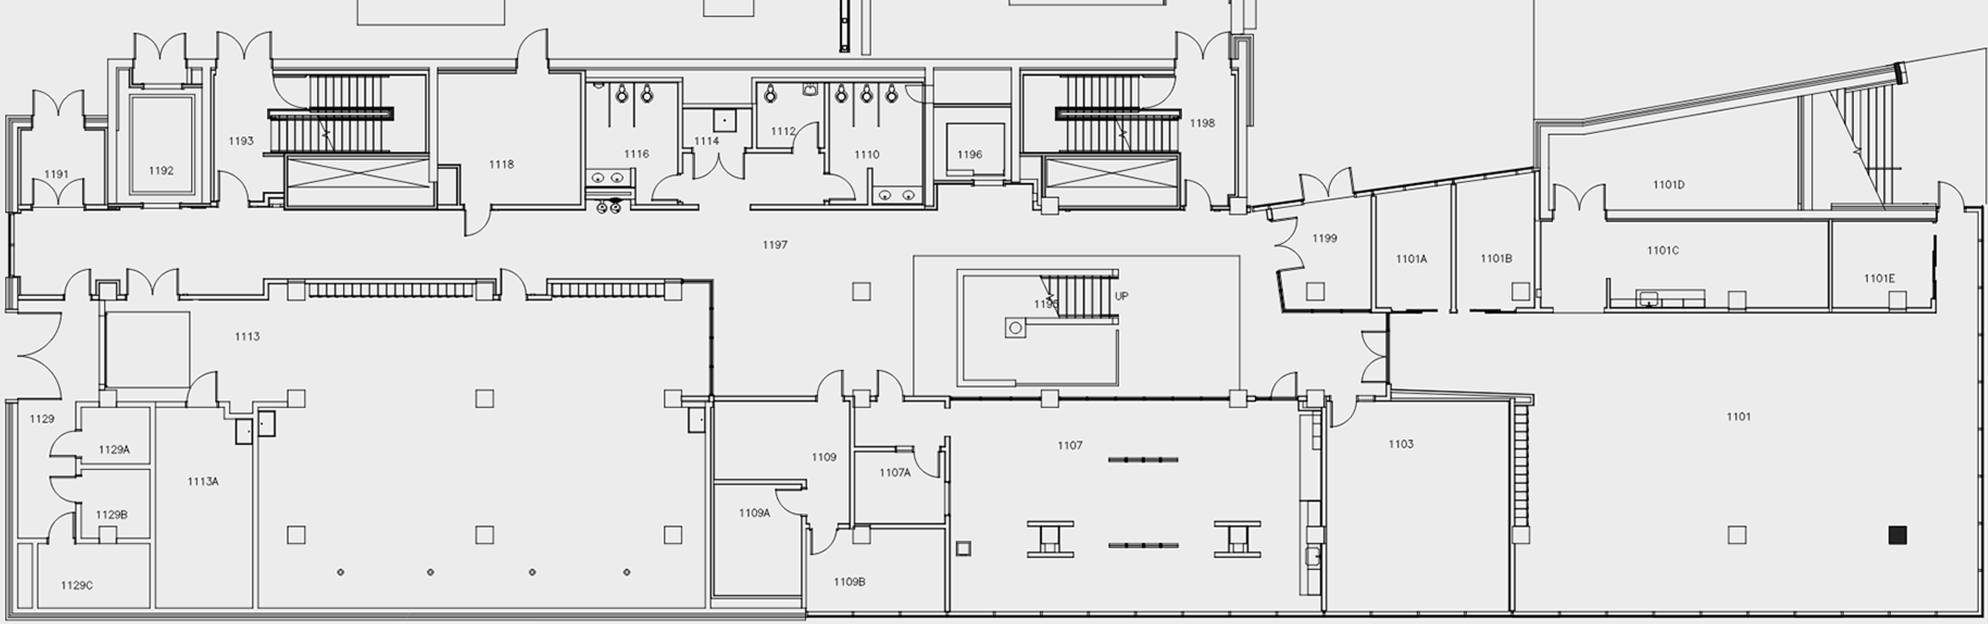
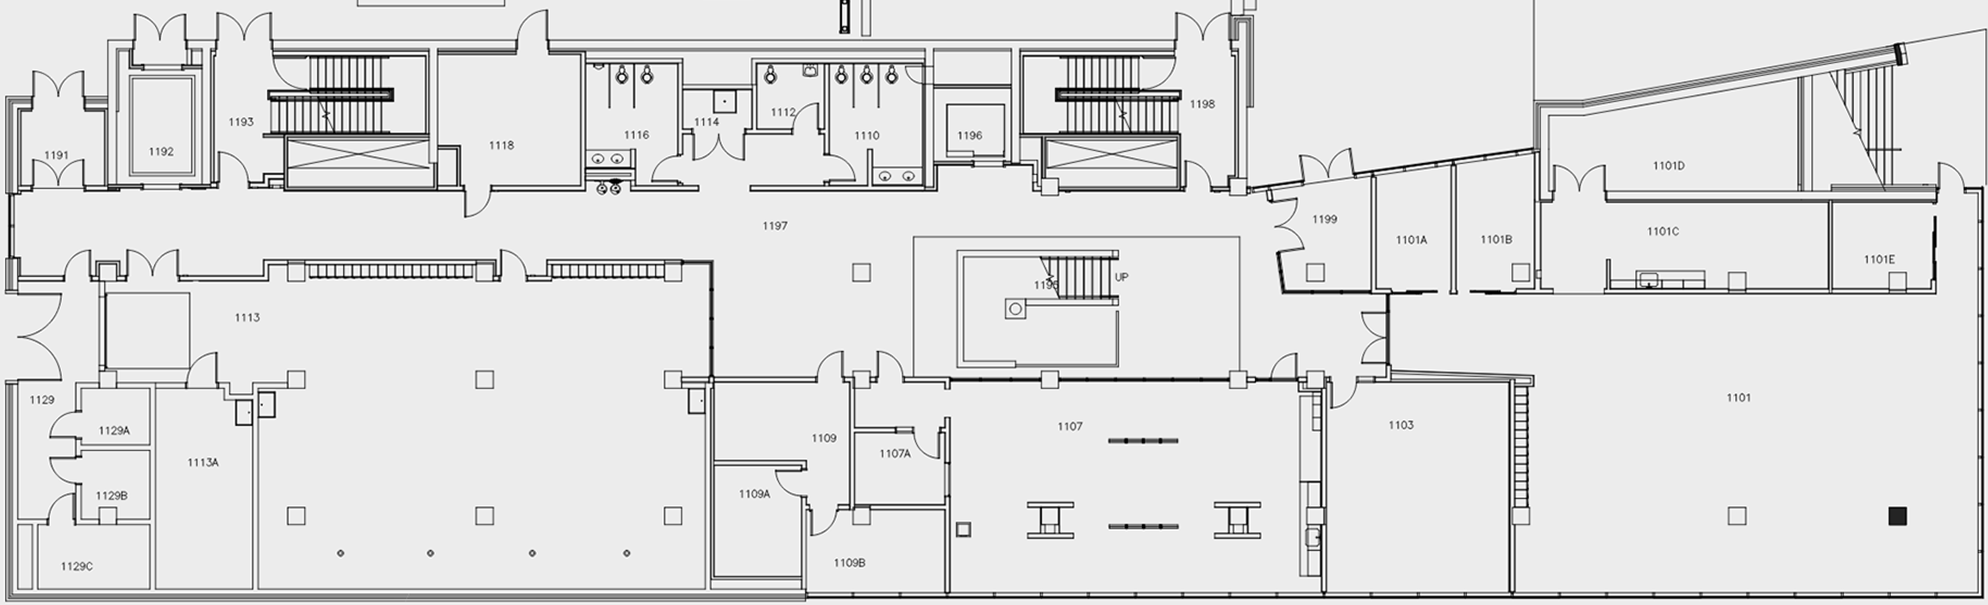
updated placements

diff --git a/app/screens/tracking.tsx b/app/screens/tracking.tsx
@@ -42,6 +42,11 @@ const floorImages: Record<number, any> = {
   3: require('../../assets/images/idea-factory-3.png'),
 };
 
+// 1: {
+//  southEast: { latitude: 38.99029118164155, longitude: -76.93799487382921 },
+//  northWest: { latitude: 38.99048332497971, longitude: -76.938594790733 },
+//},
+
 // Floor bounds
 const floorBounds = {
   1: {
@@ -148,10 +153,10 @@ const roomPolygons: Room[] = [
     name: "Bathrooms",
     floor: { number: 1, name: "First Floor" }, 
     polygon: [
-      { x: 0.30, y: 0.605 },
-      { x: 0.300, y: 0.820 },
-      { x: 0.475, y: 0.820 },
-      { x: 0.475, y: 0.605 }, 
+      { x: 0.30, y: 0.705 },
+      { x: 0.300, y: 0.920 },
+      { x: 0.475, y: 0.920 },
+      { x: 0.475, y: 0.705 }, 
     ],
   },
   {
@@ -170,10 +175,10 @@ const roomPolygons: Room[] = [
     name: "Room 1118",
     floor: { number: 1, name: "First Floor" }, 
     polygon: [
-      { x: 0.225, y: 0.605 },
-      { x: 0.225, y: 0.820 },
-      { x: 0.300, y: 0.820 },
-      { x: 0.300, y: 0.605 }, 
+      { x: 0.225, y: 0.705 },
+      { x: 0.225, y: 0.920 },
+      { x: 0.300, y: 0.920 },
+      { x: 0.300, y: 0.705 }, 
     ],
   },
   {
@@ -182,8 +187,8 @@ const roomPolygons: Room[] = [
     floor: { number: 1, name: "First Floor" }, 
     polygon: [
       { x: 0.018, y: 0.005 },
-      { x: 0.018, y: 0.318 },
-      { x: 0.086, y: 0.318 },
+      { x: 0.018, y: 0.490 },
+      { x: 0.086, y: 0.490 },
       { x: 0.086, y: 0.005 }, 
     ],
   },
@@ -192,10 +197,10 @@ const roomPolygons: Room[] = [
     name: "Room 1191",
     floor: { number: 1, name: "First Floor" }, 
     polygon: [
-      { x: 0.018, y: 0.605 },
-      { x: 0.018, y: 0.735 },
-      { x: 0.065, y: 0.735 },
-      { x: 0.065, y: 0.605 }, 
+      { x: 0.018, y: 0.705 },
+      { x: 0.018, y: 0.920 },
+      { x: 0.065, y: 0.920 },
+      { x: 0.065, y: 0.705 }, 
     ],
   },
   {
@@ -203,10 +208,10 @@ const roomPolygons: Room[] = [
     name: "Room 1192",
     floor: { number: 1, name: "First Floor" }, 
     polygon: [
-      { x: 0.065, y: 0.605 },
-      { x: 0.065, y: 0.820 },
-      { x: 0.115, y: 0.820 },
-      { x: 0.115, y: 0.605 }, 
+      { x: 0.065, y: 0.705 },
+      { x: 0.065, y: 0.920 },
+      { x: 0.115, y: 0.920 },
+      { x: 0.115, y: 0.705 }, 
     ],
   },
   {
@@ -214,43 +219,34 @@ const roomPolygons: Room[] = [
     name: "West Stairwell",
     floor: { number: 1, name: "First Floor" }, 
     polygon: [
-      { x: 0.115, y: 0.605 },
-      { x: 0.115, y: 0.820 },
-      { x: 0.225, y: 0.820 },
-      { x: 0.225, y: 0.605 }, 
+      { x: 0.115, y: 0.705 },
+      { x: 0.115, y: 0.920 },
+      { x: 0.225, y: 0.920 },
+      { x: 0.225, y: 0.705 }, 
     ],
   },
-  {
-    id: "elevator-w1",
-    name: "West Elevator",
-    floor: { number: 1, name: "First Floor" }, 
-    polygon: [
-      { x: 0.115, y: 0.605 },
-      { x: 0.115, y: 0.820 },
-      { x: 0.225, y: 0.820 },
-      { x: 0.225, y: 0.605 }, 
-    ],
-  },
+ 
   {
     id: "room-1195",
     name: "Main Stairs",
     floor: { number: 1, name: "First Floor" }, 
     polygon: [
-      { x: 0.460 , y: 0.535 },
-      { x: 0.460 , y: 0.325 },
+      { x: 0.360 , y: 0.535 },
+      { x: 0.360 , y: 0.325 },
       { x: 0.625 , y: 0.325 },
       { x: 0.625 , y: 0.535 },
     ],
   },
+  
   {
     id: "room-1196",
     name: "Room 1196",
     floor: { number: 1, name: "First Floor" }, 
     polygon: [
-      { x: 0.475, y: 0.605 },
-      { x: 0.475, y: 0.820 },
-      { x: 0.510, y: 0.820 },
-      { x: 0.510, y: 0.605 }, 
+      { x: 0.475, y: 0.705 },
+      { x: 0.475, y: 0.920 },
+      { x: 0.510, y: 0.920 },
+      { x: 0.510, y: 0.705 }, 
     ],
   },
   {
@@ -259,20 +255,31 @@ const roomPolygons: Room[] = [
     floor: { number: 1, name: "First Floor" }, 
     polygon: [
       { x: 0.510, y: 0.675 },
-      { x: 0.510, y: 0.820 },
-      { x: 0.624, y: 0.820 },
+      { x: 0.510, y: 0.920 },
+      { x: 0.624, y: 0.920 },
       { x: 0.624, y: 0.675 }, 
     ],
   },
   {
-    id: "elevator-e1",
+    id: "hallway-right",
     name: "East Elevator",
     floor: { number: 1, name: "First Floor" }, 
     polygon: [
-      { x: 0.510, y: 0.535 },
-      { x: 0.510, y: 0.675 },
+      { x: 0.310, y: 0.535 },
+      { x: 0.310, y: 0.675 },
       { x: 0.624, y: 0.675 },
       { x: 0.624, y: 0.535 }, 
+    ],
+  },
+  {
+    id: "window-hallway",
+    name: "window-hallway",
+    floor: { number: 1, name: "First Floor" }, 
+    polygon: [
+      { x: 0.010, y: 0.480 },
+      { x: 0.010, y: 0.7 },
+      { x: 0.324, y: 0.7 },
+      { x: 0.324, y: 0.480 }, 
     ],
   },
   {
@@ -537,6 +544,8 @@ interface Coordinate {
   longitude: number;
 }
 
+const [tappedCoordinates, setTappedCoordinates] = useState(null);
+
 export default function TrackingPage() {
   const [cameraData, setCameraData] = useState<Camera[]>([]);
   const [currentFloor, setCurrentFloor] = useState<Floor>({
@@ -590,16 +599,13 @@ export default function TrackingPage() {
   };
 
 // Ensure it's a tuple: [southwest, northeast] format
-      const overlayBounds: [Coordinate, Coordinate] = [
-        {
-          latitude: bounds.southEast.latitude, // South
-          longitude: bounds.northWest.longitude, // West
-        },
-        {
-          latitude: bounds.northWest.latitude, // North
-          longitude: bounds.southEast.longitude, // East
-        }
-      ];
+const overlayBounds: [[number, number], [number, number]] = [
+  [bounds.southEast.latitude, bounds.northWest.longitude],
+  [bounds.northWest.latitude, bounds.southEast.longitude]
+];
+
+const [selectedRoom, setSelectedRoom] = useState<any>(null);
+
 
       const CameraMap = ({ cameraMap }: Props) => {
         const [cameraData, setCameraData] = useState<Camera[]>([]);
@@ -621,6 +627,15 @@ export default function TrackingPage() {
 
 
       }
+
+      useEffect(() => {
+        if (selectedRoom) {
+          const timer = setTimeout(() => {
+            setSelectedRoom(null);
+          }, 3000);
+          return () => clearTimeout(timer); // cleanup if user taps a new room quickly
+        }
+      }, [selectedRoom]);
   
   return (
     <View style={styles.container}>
@@ -630,6 +645,11 @@ export default function TrackingPage() {
           region={mapRegion}
           onRegionChangeComplete={(region) => setMapRegion(region)}
         >
+        <Overlay
+            key={floorImages[currentFloor.number]} // 👈 use the image URL or floor name as a unique key
+            bounds={overlayBounds}
+            image={floorImages[currentFloor.number]}
+          />
         {roomPolygons
           .filter((room) => room.floor.number === currentFloor.number)
           .map((room) => {
@@ -651,12 +671,13 @@ export default function TrackingPage() {
                 fillColor={fillColor}
                 strokeWidth={2}
                 zIndex={3}
-                onPress={handlePolygonPress} // Add onPress event here
-                
               />
             );
+            
           })}
-        
+
+          {/* Show room name as a Callout when a room is tapped */}
+ 
 
           {cameraData.map((cam) => (
             <React.Fragment key={cam.id}>

diff --git a/services/firestore.js b/services/firestore.js
@@ -184,6 +184,7 @@ export const updateCamera = async (cameraId, updatedData) => {
       coverageRadius: updatedData.coverageRadius,
       floor: updatedData.floor,
       roomID: updatedData.roomID,
+      shooter_detected: updatedData.shooter_detected
     });
     console.log(`Camera with ID ${cameraId} updated successfully.`);
   } catch (error) {
@@ -226,7 +227,8 @@ export async function getCameras() {
         name: data.name ?? "",               // Default to empty string if missing
         coverageRadius: data.coverageRadius ?? 50,  // Default to 50 if missing
         floor: data.floor ?? 1,              // Default to 1 if missing
-        roomID: data.roomID
+        roomID: data.roomID, 
+        shooter_detected: data.shooter_detected
       };
     });
     return cameras;  // Return the array of cameras with proper defaults
